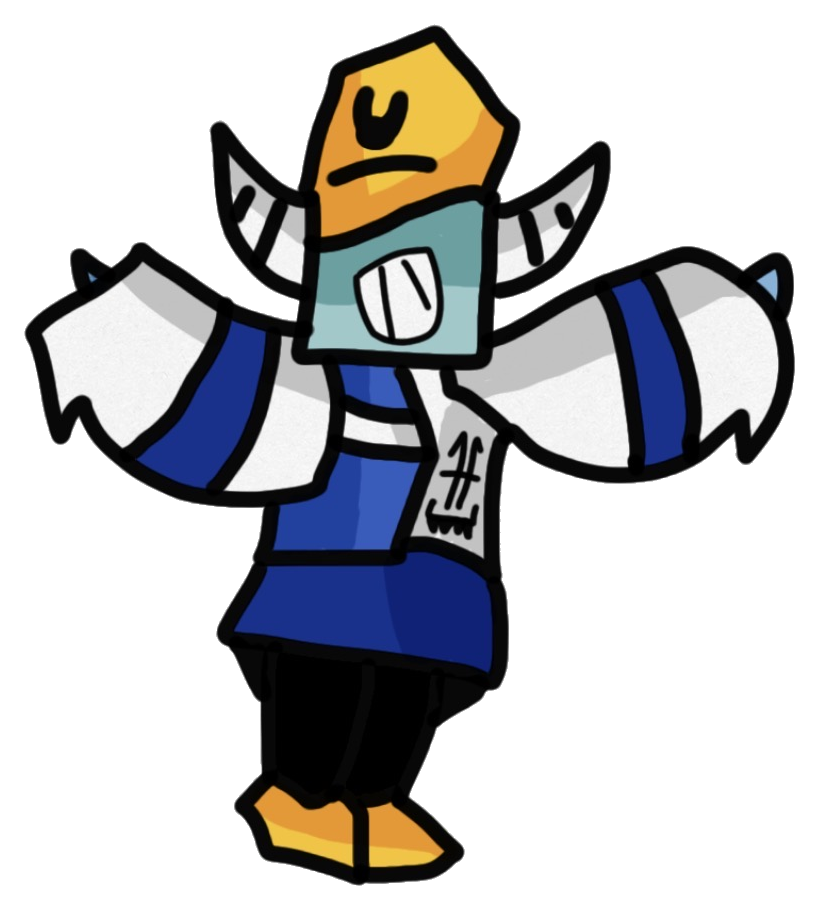
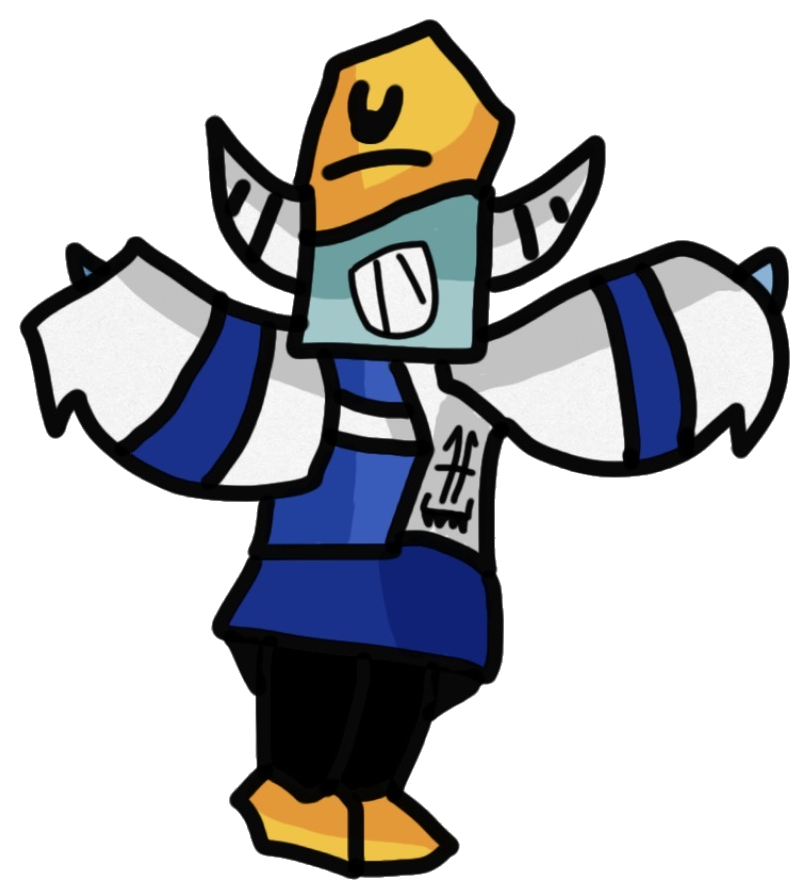
🎞 캐릭터 움직임 추가 — 물소소녀 공격 모션 (그림: 구예준)
- 평소-평소-공격-공격 반복 (예준 지정 패턴), 한 바퀴 약 1초
- 두 컷을 같은 화폭에 발 위치 기준 정렬 (캐릭터가 흔들리지 않게)
- 모션 컷이 있는 캐릭터만 움직임, 없으면 기존 그대로
- 드래베오 변신 시 변신 폼 모션으로 자동 전환

diff --git a/index.html b/index.html
@@ -1073,6 +1073,9 @@ loadArt('priest', 'character/priest');   // 첫사랑성직자 (뽑기·도감)
 loadArt('josun', 'character/josun');       // 조슨대왕 — 신하 소환 어태커
 loadArt('wolf', 'character/wolf');         // 백울프 — 확률 스턴
 loadArt('watergirl', 'character/watergirl'); // 물소소녀 — 물꽃·박치기·비
+// 🎞 공격 모션 컷 (예준 그림) — 있으면 전투 중에 평소↔모션을 번갈아 보여줌
+['legend', 'legend2', 'priest', 'watergirl', 'josun', 'wolf']
+  .forEach(k => loadArt(k + '_atk', 'character/' + k + '_atk'));
 loadArt('raidboss', 'character/raidboss');   // 🐉 레이드 보스형님 (그리면 자동 교체)
 // 🍿 팝콘 그림 (그리면 자동 교체, 없으면 이모지)
 [1, 2, 3, 4, 5].forEach(i => loadArt('popcorn' + i, 'character/popcorn' + i));
@@ -2138,7 +2141,9 @@ function mkHero(id, side) {
   const maxHp = Math.round(base.hp * statMult * hMul);
   return {
     kind: 'hero', id, side, lv, attr, item, used: {}, name: base.name,
-    art: ART[heroKey(id)] || null, hasGauge: !!base.hasGauge, skill: base.skill,
+    art: ART[heroKey(id)] || null,
+    atkArt: ART[heroKey(id) + '_atk'] || null,   // 🎞 공격 모션 컷 (있을 때만 움직임)
+    hasGauge: !!base.hasGauge, skill: base.skill,
     atk: Math.round(base.atk * statMult * aMul), hp: maxHp, maxHp,
     gauge: 0, buffMult: 1, buffUntil: 0, transformed: false,
     hitCount: 0, stunned: false, nextAt: 0, el: null,
@@ -2192,6 +2197,23 @@ function spawnMinion(targetEl) {
   $('arena').appendChild(m);
   setTimeout(() => m.remove(), 750);
 }
+
+// ══════ 🎞 캐릭터 움직임 (예준 기획: 평소-평소-모션-모션 반복) ══════
+const ANIM_PATTERN = [0, 0, 1, 1];   // 0=평소, 1=공격 모션
+const ANIM_MS = 260;                  // 한 컷 보여주는 시간
+let animStep = 0;
+setInterval(() => {
+  if (!B || B.over) return;
+  animStep = (animStep + 1) % ANIM_PATTERN.length;
+  const useAtk = ANIM_PATTERN[animStep] === 1;
+  ['A', 'B'].forEach(side => (B.teams[side] || []).forEach(u => {
+    if (!u.el || u.hp <= 0 || !u.atkArt) return;
+    const img = u.el.querySelector('img.body');
+    if (!img) return;
+    const want = useAtk ? u.atkArt : u.art;
+    if (img.getAttribute('src') !== want) img.setAttribute('src', want);
+  }));
+}, ANIM_MS);
 
 function setUnitBar(u) {
   if (!u.el) return;
@@ -2356,6 +2378,7 @@ function fireSkill(u) {
     u.buffMult = TRANSFORM_DMG; u.buffUntil = Date.now() + TRANSFORM_SEC * 1000; u.transformed = true;
     const img = u.el.querySelector('img.body');
     if (ART.legend2 && img) img.src = ART.legend2;
+    if (ART.legend2) { u.art = ART.legend2; u.atkArt = ART.legend2_atk || null; }  // 🎞 변신 폼 모션
     u.name = '정룡술사';
     u.el.querySelector('.name-tag').innerHTML = unitTag(u);
     popDmg(u.el, '🐉 변신!', 'ult');
@@ -2384,6 +2407,7 @@ function battleTick() {
       u.transformed = false; u.buffMult = 1; u.name = HEROES[u.id].name;
       const img = u.el && u.el.querySelector('img.body');
       if (ART.legend && img) img.src = ART.legend;
+      if (ART.legend) { u.art = ART.legend; u.atkArt = ART.legend_atk || null; }  // 🎞 원래 폼 모션으로 복귀
       if (u.el) u.el.querySelector('.name-tag').innerHTML = unitTag(u);
     }
   }));
